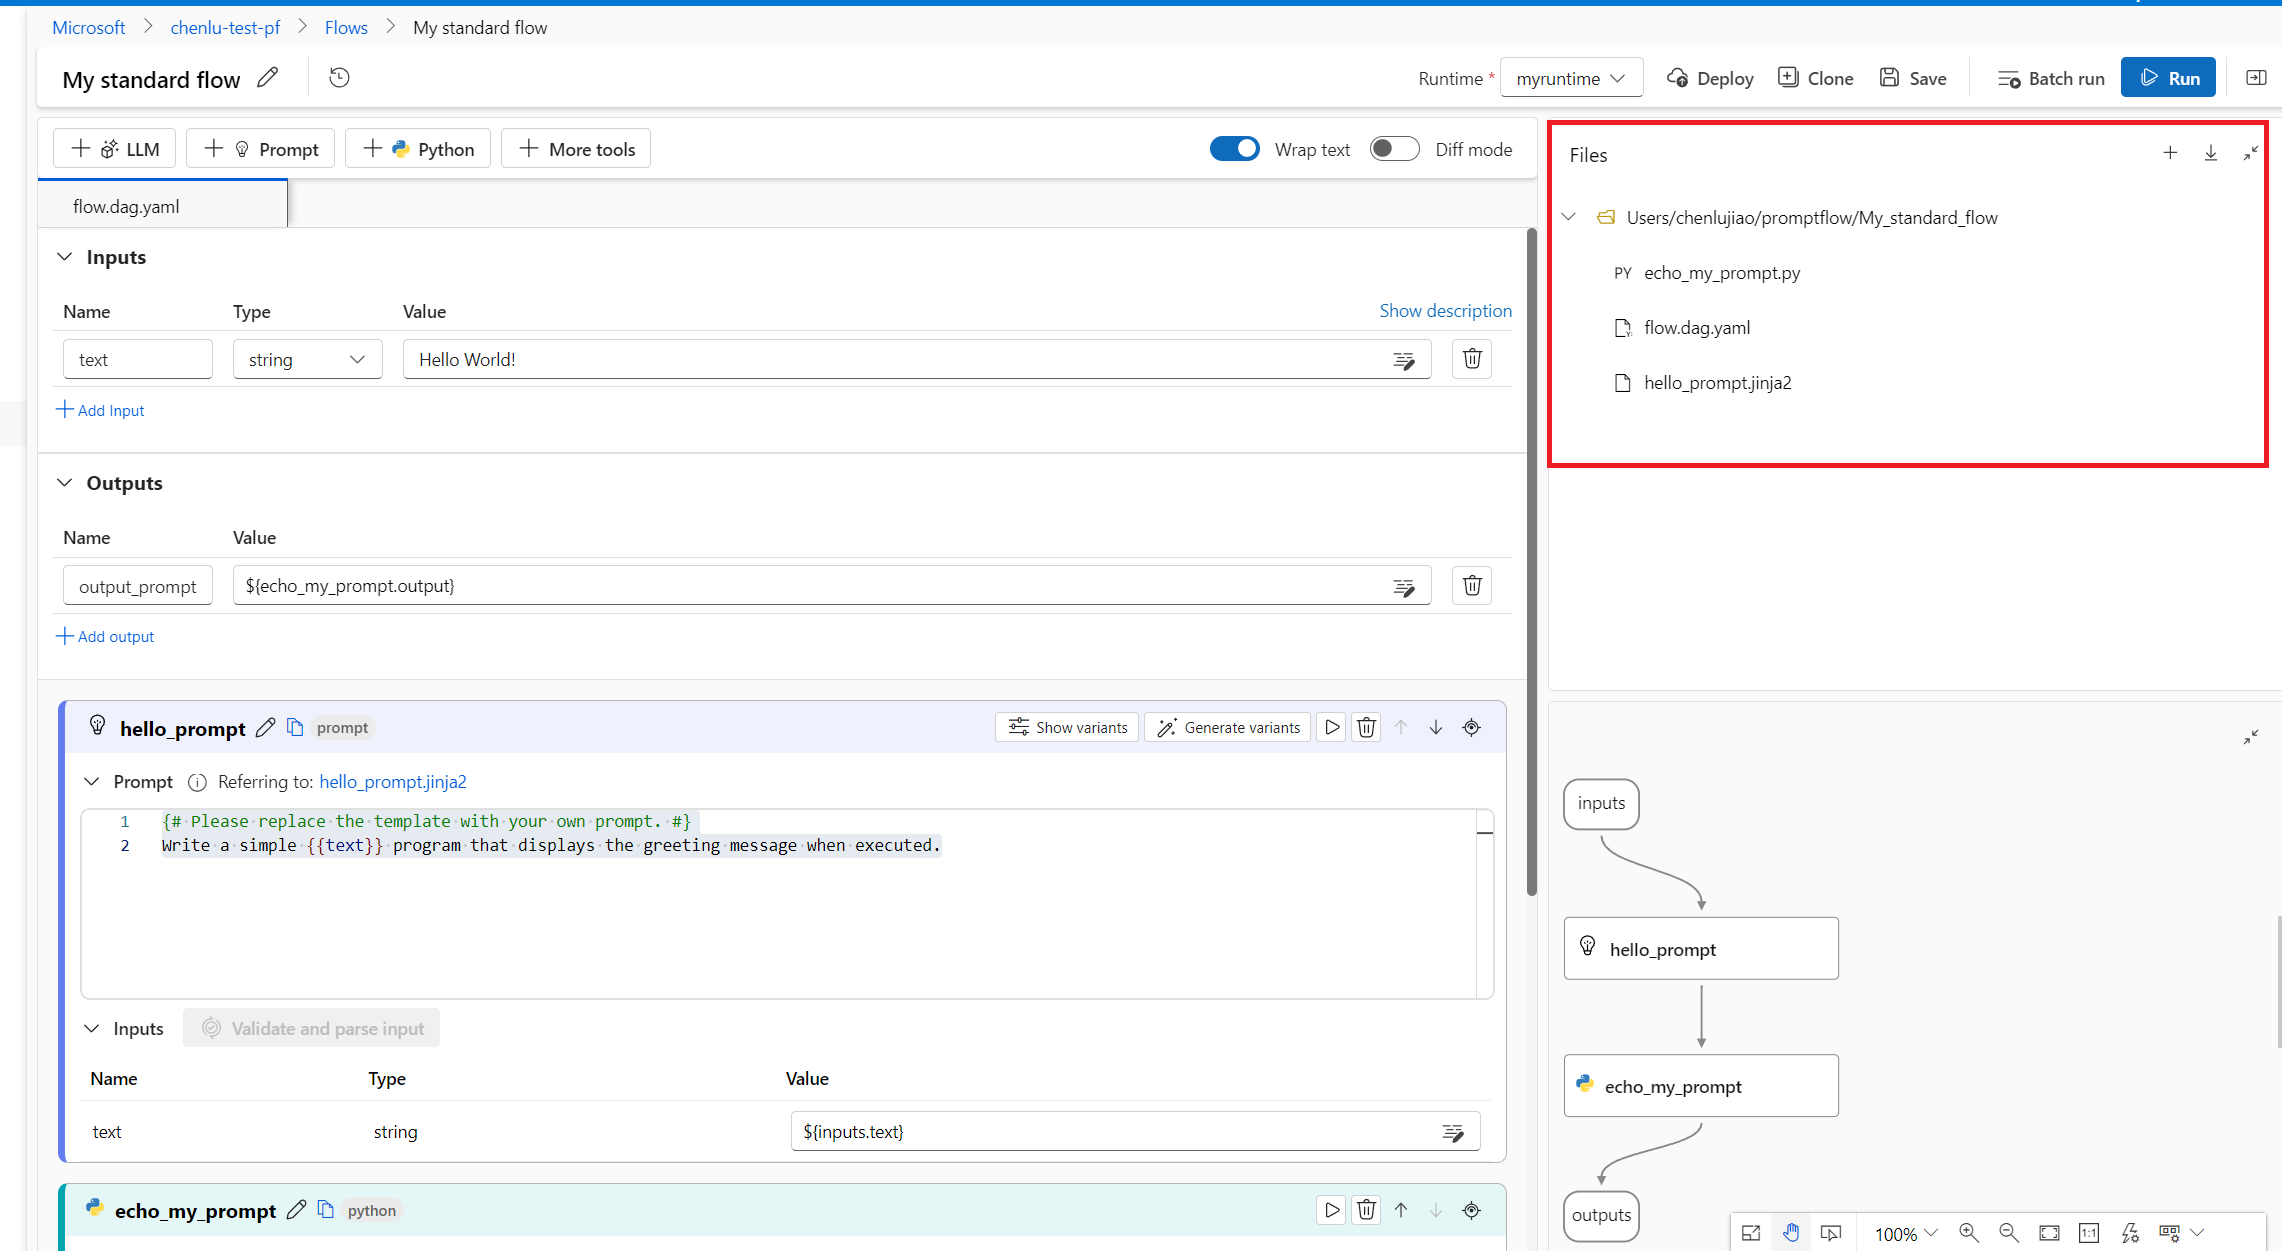
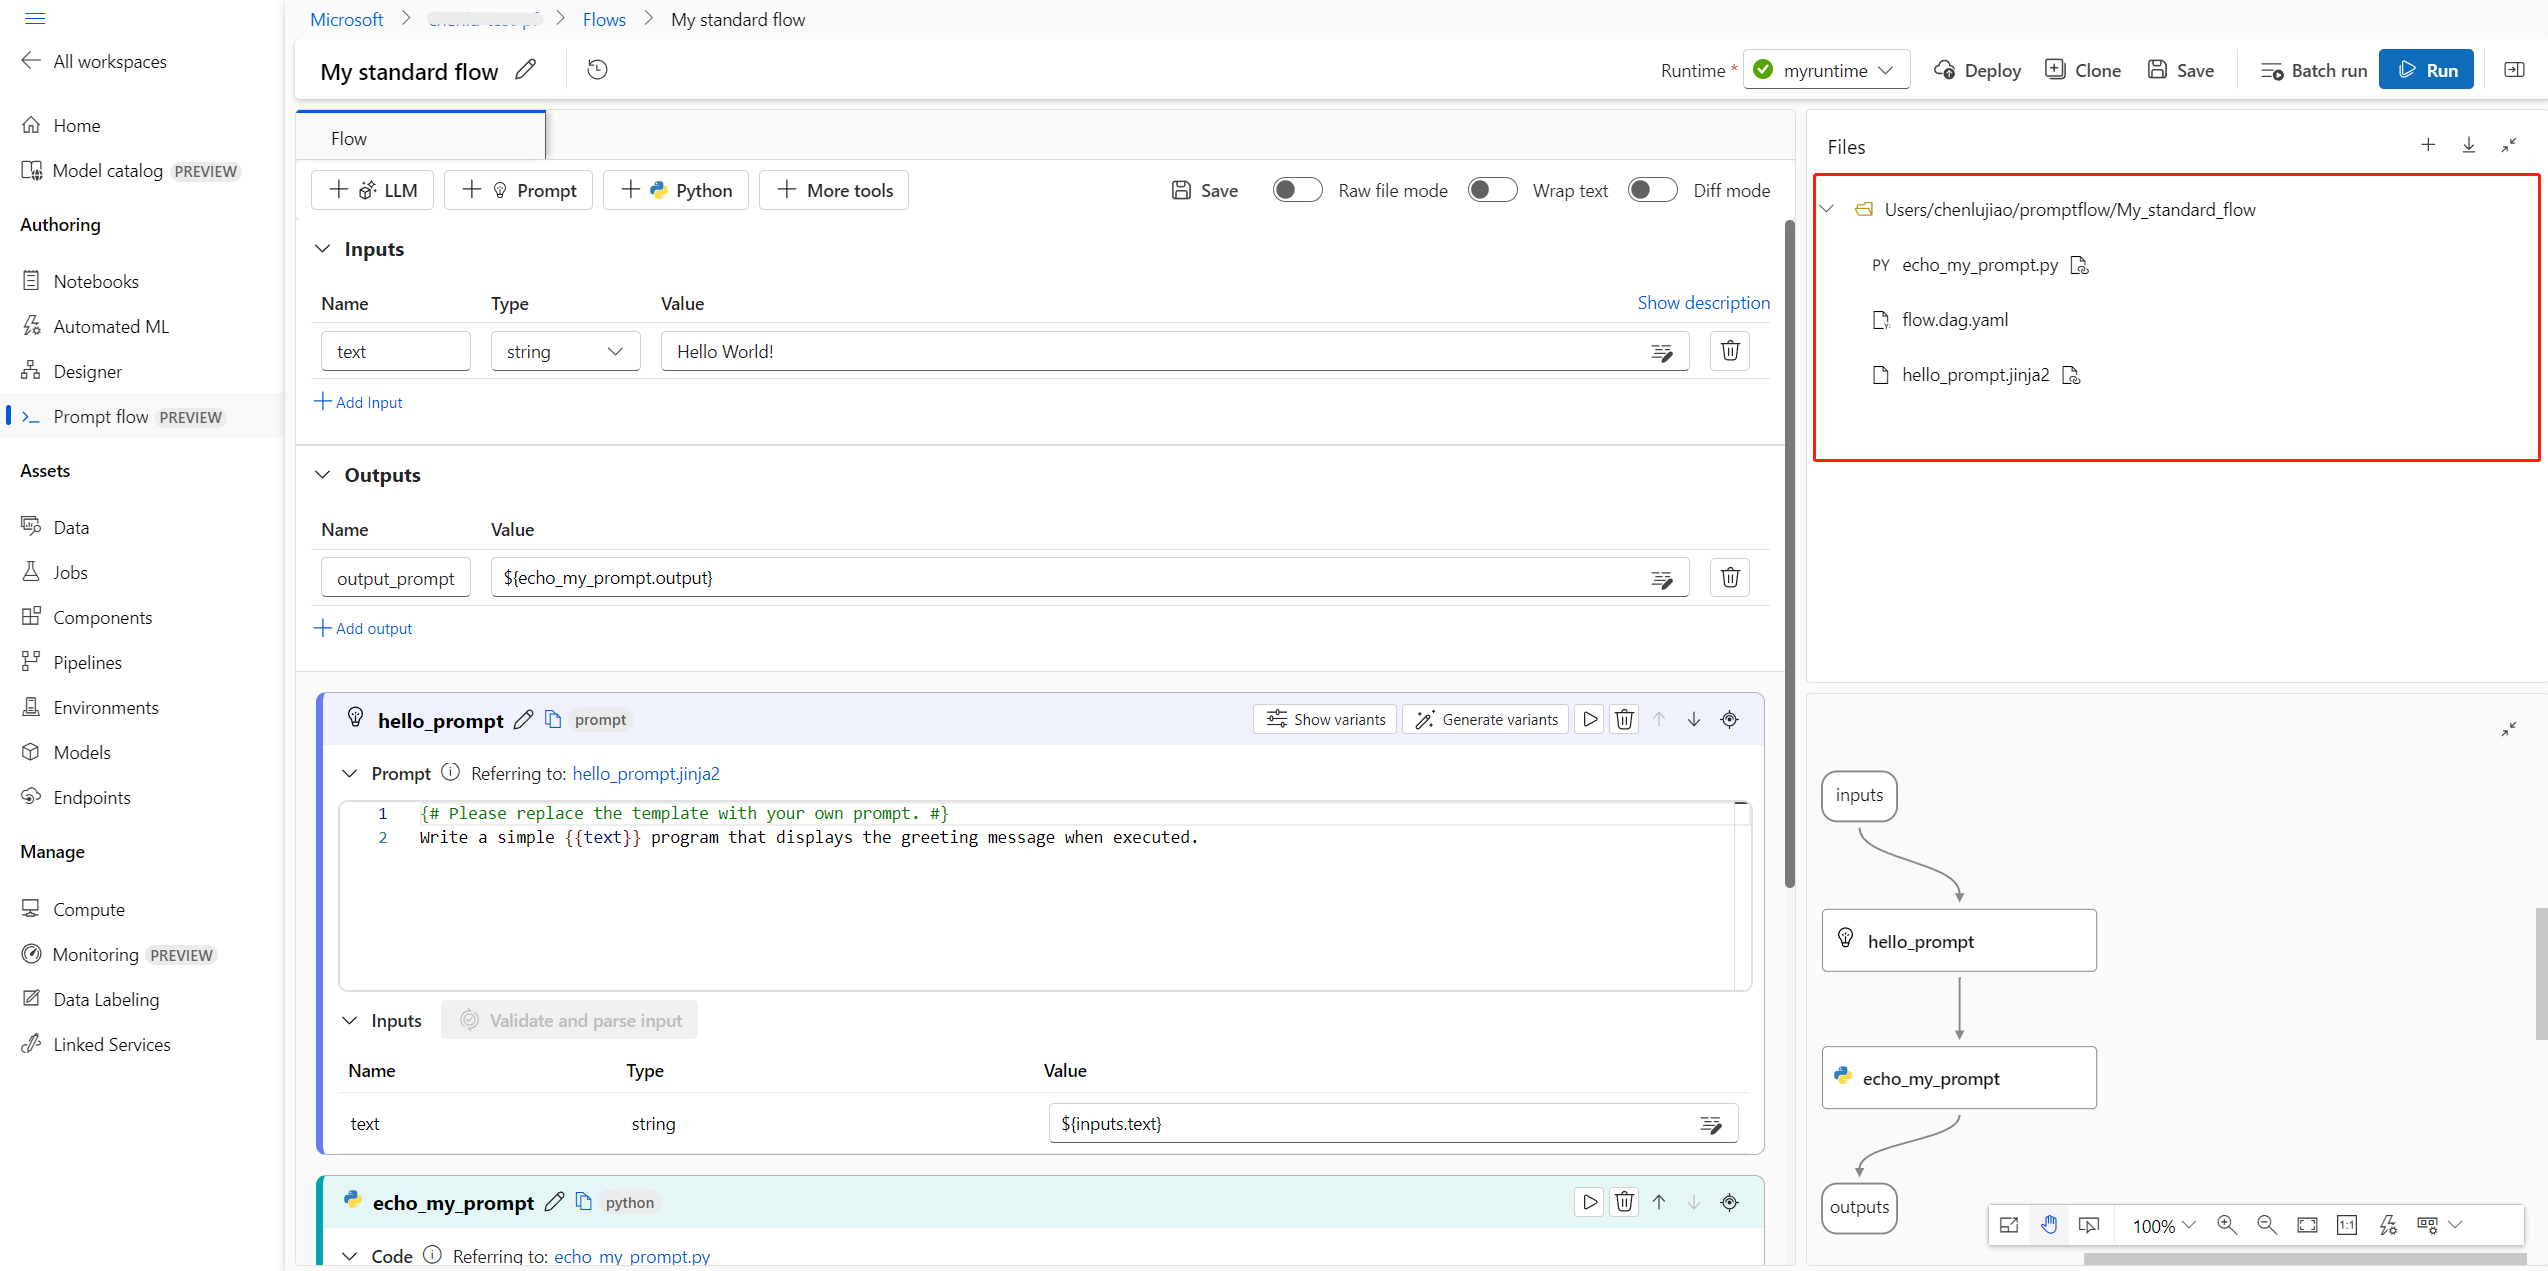
update the screenshot

diff --git a/docs/go-to-production/integrate_with_llmapp-devops.md b/docs/go-to-production/integrate_with_llmapp-devops.md
@@ -53,6 +53,10 @@ Once the flow is created, you can navigate to the Flow Authoring Page to view an
 
 ![Flow file explorer](../media/integrate-with-llmapp-devops/flow_file_explorer.png)
 
+With "Raw file mode" switched on, you can view and edit the raw content of the files in the file editor, including the flow definition file `flow.dag.yaml` and the source files.
+![Flow day yaml](../media/integrate-with-llmapp-devops/flow_day_yaml_raw_file.png)
+![Flow source file](../media/integrate-with-llmapp-devops/flow_source_file_raw_file.png)
+
 Alternatively, you can access all the flow folders directly within the Azure Machine Learning notebook.
 
 ![Notebook userpath](../media/integrate-with-llmapp-devops/aml_notebook_userpath.png)
@@ -454,7 +458,7 @@ Throughout the lifecycle of your flow iterations, several operations can be auto
 * Registering of prompt flow models
 * Deployment of prompt flow models
 
-For a comprehensive guide on an end-to-end MLOps pipeline that executes a web classification flow, you can refer to  [Set up e2e LLMOps with Promptflow and GitHub](../go-to-production/e2e_llmops_with_promptflow.md).
+For a comprehensive guide on an end-to-end MLOps pipeline that executes a web classification flow, you can refer to  [Set up e2e LLMOps with Promptflow and GitHub](../go-to-production/e2e_llmops_with_promptflow.md), and the [GitHub demo project](https://github.com/Azure/llmops-gha-demo).
 
 ### CD: Continuous deployment
 
